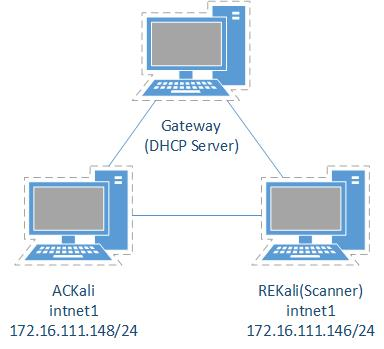
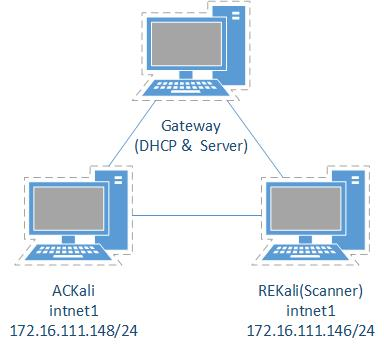
添加nmap实现&&修改拓扑

Changed region(s): [[0.3438, 0.4011, 0.6562, 0.4585]]

diff --git a/ns-0x05/README.md b/ns-0x05/README.md
@@ -155,6 +155,7 @@
 - 端口过滤状态<br>
   ![端口过滤扫描结果](img/tcp-null-scan-filtered.jpg)
 ### `UDP scan`
+- `DNS`运行在`53`端口并且使用`UDP`
 - 代码
     ```py
     #! /usr/bin/python
@@ -183,11 +184,81 @@
 - 端口关闭状态<br>
   ![端口关闭扫描结果](img/udp-scan-closed.jpg)
 - 端口开启状态<br>
-  ![端口开启扫描结果](img/udp-scan-open.jpg)
+  - 网关开启提供`DNS`服务
+    - 判断开启状态需要发送`DNS`询问包
+      ```py
+      # 参照nmap发送的包构造
+      udp_scan_resp = sr1(IP(dst=dst_ip)/UDP(dport=dst_port)/DNS(opcode=2),timeout=dst_timeout)
+      # rd = truncated
+
+      # 添加判断
+      elif (udp_scan_resp.haslayer(UDP)):
+        return "Open"
+      ```
+      ![端口开启扫描结果-DNS回复](img/udp-scan-open-gateway.jpg)
+    - 最后一个`ICMP Destination unreachable`出现的原因: `REKali`的`53`端口未开启监听
+  - 网关未开启<br>
+    ![端口开启扫描结果](img/udp-scan-open.jpg)
 - 端口过滤状态<br>
   ![端口过滤扫描结果](img/udp-scan-filtered.jpg)
+### 使用`nmap`进行扫描
+#### `TCP connect scan`
+- `nmap -sT -p 80 172.16.111.148`
+- 端口关闭状态<br>
+  ![端口关闭扫描结果](img/tcp-connect-scan-nmap-closed.jpg)
+- 端口开启状态<br>
+  ![端口开启扫描结果](img/tcp-connect-scan-nmap-open.jpg)
+- 端口过滤状态<br>
+  ![端口过滤扫描结果](img/tcp-connect-scan-nmap-filtered.jpg)
+#### `TCP stealth scan`
+- `nmap -sS -p 80 172.16.111.148`
+- 端口关闭状态<br>
+  ![端口关闭扫描结果](img/tcp-connect-scan-nmap-closed.jpg)
+- 端口开启状态<br>
+  ![端口开启扫描结果](img/tcp-stealth-scan-nmap-open.jpg)
+- 端口过滤状态<br>
+  ![端口过滤扫描结果](img/tcp-stealth-scan-nmap-filtered.jpg)
+#### `TCP Xmas scan`
+- `nmap -sX -p 80 172.16.111.148`
+- 端口关闭状态<br>
+  ![端口关闭扫描结果](img/tcp-xmas-scan-nmap-closed.jpg)
+- 端口开启状态<br>
+  ![端口开启扫描结果](img/tcp-xmas-scan-nmap-open.jpg)
+- 端口过滤状态<br>
+  ![端口过滤扫描结果](img/tcp-xmas-scan-nmap-filtered.jpg)
+#### `TCP FIN scan`
+- `nmap -sF -p 80 172.16.111.148`
+- 端口关闭状态<br>
+  ![端口关闭扫描结果](img/tcp-fin-scan-nmap-closed.jpg)
+- 端口开启状态<br>
+  ![端口开启扫描结果](img/tcp-fin-scan-nmap-open.jpg)
+- 端口过滤状态<br>
+  ![端口过滤扫描结果](img/tcp-fin-scan-nmap-filtered.jpg)
+#### `TCP NULL scan`
+- `nmap -sN -p 80 172.16.111.148`
+- 端口关闭状态<br>
+  ![端口关闭扫描结果](img/tcp-null-scan-nmap-closed.jpg)
+- 端口开启状态<br>
+  ![端口开启扫描结果](img/tcp-null-scan-nmap-open.jpg)
+- 端口过滤状态<br>
+  ![端口过滤扫描结果](img/tcp-null-scan-nmap-filtered.jpg)
+#### `UDP scan`
+- `nmap -sU -p 53 172.16.111.148`
+- 端口关闭状态<br>
+  ![端口关闭扫描结果](img/udp-scan-nmap-closed.jpg)
+- 端口开启状态<br>
+  - 网关开启提供`DNS`服务<br>
+    ![端口开启扫描结果](img/udp-scan-nmap-open-gateway.jpg)
+  - 网关未开启<br>
+    ![端口开启扫描结果](img/udp-scan-nmap-open.jpg)
+- 端口过滤状态<br>
+  ![端口过滤扫描结果](img/udp-scan-nmap-filtered.jpg)
 ## 实验总结
 - 每一次扫描测试的抓包结果与课本中的扫描方法原理基本相符
+- ```
+  TSval: Timestamp value
+  TSecr: Timestamp echo reply
+  ```
 ### `Scapy`
 - `TCP`中的`flags`参数值填写需要置`1`字段名的首字母(顺序任意), 如`[RST, ACK]`对应`AR`, 也可以填写对应的字段值, 如`flags=0x2`:<br>
   ![TCP flags](img/tcp-flags.jpg)
@@ -215,3 +286,5 @@ ufw status  #查看当前防火墙的状态和现有规则
 - [Usage — Scapy 3 documentation](https://scapy.readthedocs.io/en/latest/usage.html)
 - [Port Scanning using Scapy](https://resources.infosecinstitute.com/port-scanning-using-scapy/)
 - [UFW](https://help.ubuntu.com/community/UFW)
+- [Port Scanning Techniques](https://nmap.org/book/man-port-scanning-techniques.html)
+- [Why is my computer trying to send ICMP type 3 to OpenDNS?](https://unix.stackexchange.com/questions/94187/why-is-my-computer-trying-to-send-icmp-type-3-to-opendns)
